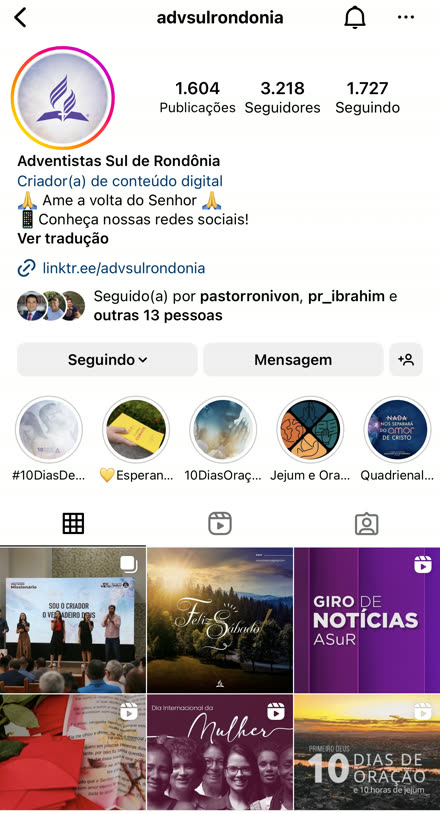
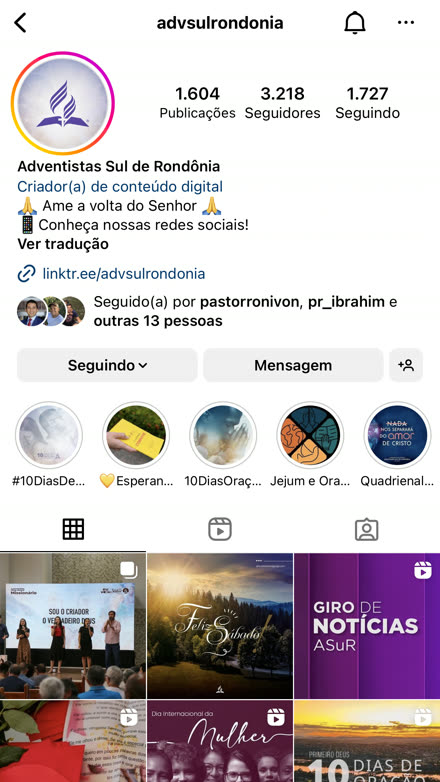
Alinha os @ dos prints e faz o quadro abrir inteiro no lightbox
Os prints vêm de aparelhos diferentes — 1242x2688, 1170x2532 e um já
recortado de 1241x1995 — com barras de status de alturas diferentes, então
a linha do @ caía em alturas diferentes dentro do quadro. A régua agora é o
próprio @: mede-se onde ele está no original e escolhe-se o corte para ele
cair a 22px do topo depois de reduzir para 440px. Os três saem 440x782.

No print da missões o @ já estava colado no topo, sem margem para descer;
entra branco antes do corte, que é o fundo do Instagram e não deixa emenda.
Entra também o depois dela.

Clicar num quadro abre a imagem inteira no mesmo lightbox da galeria, que já
mostra com object-fit: contain. O bloco 7 passa a atender duas coleções e a
variável grupo guarda qual foi aberta, para as setas andarem dentro dela. Daí
o quadro virar <button> com data-full, em vez de <figure>. Para os quatro
arquivos que ainda faltam, um ouvinte de error troca a imagem pelo degradê do
próprio card — a mesma regra de nunca deixar buraco visível.

diff --git a/index.html b/index.html
@@ -413,14 +413,16 @@
               </h3>
             </header>
             <div class="profile__pair">
-              <figure class="profile__shot">
+              <button class="profile__shot" type="button"
+                      data-full="assets/fotos/perfil-1-antes.jpg" data-caption="@adventistasulrondonia — antes">
                 <span class="profile__img profile__img--1-antes" aria-hidden="true"></span>
-                <figcaption class="profile__cap">Antes</figcaption>
-              </figure>
-              <figure class="profile__shot">
+                <span class="profile__cap">Antes</span>
+              </button>
+              <button class="profile__shot" type="button"
+                      data-full="assets/fotos/perfil-1-depois.jpg" data-caption="@adventistasulrondonia — depois">
                 <span class="profile__img profile__img--1-depois" aria-hidden="true"></span>
-                <figcaption class="profile__cap">Depois</figcaption>
-              </figure>
+                <span class="profile__cap">Depois</span>
+              </button>
             </div>
           </article>
           <article class="profile reveal">
@@ -433,14 +435,16 @@
               </h3>
             </header>
             <div class="profile__pair">
-              <figure class="profile__shot">
+              <button class="profile__shot" type="button"
+                      data-full="assets/fotos/perfil-2-antes.jpg" data-caption="@missoesnoroeste — antes">
                 <span class="profile__img profile__img--2-antes" aria-hidden="true"></span>
-                <figcaption class="profile__cap">Antes</figcaption>
-              </figure>
-              <figure class="profile__shot">
+                <span class="profile__cap">Antes</span>
+              </button>
+              <button class="profile__shot" type="button"
+                      data-full="assets/fotos/perfil-2-depois.jpg" data-caption="@missoesnoroeste — depois">
                 <span class="profile__img profile__img--2-depois" aria-hidden="true"></span>
-                <figcaption class="profile__cap">Depois</figcaption>
-              </figure>
+                <span class="profile__cap">Depois</span>
+              </button>
             </div>
           </article>
           <article class="profile reveal">
@@ -453,14 +457,16 @@
               </h3>
             </header>
             <div class="profile__pair">
-              <figure class="profile__shot">
+              <button class="profile__shot" type="button"
+                      data-full="assets/fotos/perfil-3-antes.jpg" data-caption="@deboraknpp — antes">
                 <span class="profile__img profile__img--3-antes" aria-hidden="true"></span>
-                <figcaption class="profile__cap">Antes</figcaption>
-              </figure>
-              <figure class="profile__shot">
+                <span class="profile__cap">Antes</span>
+              </button>
+              <button class="profile__shot" type="button"
+                      data-full="assets/fotos/perfil-3-depois.jpg" data-caption="@deboraknpp — depois">
                 <span class="profile__img profile__img--3-depois" aria-hidden="true"></span>
-                <figcaption class="profile__cap">Depois</figcaption>
-              </figure>
+                <span class="profile__cap">Depois</span>
+              </button>
             </div>
           </article>
         </div>

diff --git a/js/main.js b/js/main.js
@@ -172,17 +172,30 @@
   }
 
   /* ---------------------------------------------------------------
-     7. LIGHTBOX DA GALERIA DE FOTOS
-     Funciona tanto com <img> quanto com os placeholders coloridos.
+     7. LIGHTBOX — galeria de fotos e quadros de antes/depois
+     Funciona com <img>, com os placeholders coloridos e com os quadros
+     que são só background no CSS. Duas coleções usam o mesmo visor: a
+     galeria e o antes/depois; `grupo` guarda qual foi aberta, para as
+     setas andarem dentro dela e não misturarem as duas.
      --------------------------------------------------------------- */
   const lightbox = $("#lightbox");
   const stage = $("#lightbox-stage");
   const caption = $("#lightbox-caption");
   const shots = $$("#gallery .shot");
+  const profileShots = $$(".profile__shot");
+  let grupo = shots;
   let current = 0;
 
+  // O quadro pode não ter arquivo ainda: aí vale o degradê do próprio card,
+  // igual à página, em vez do ícone de imagem quebrada.
+  const mostrarFallback = (shot) => {
+    const ph = $(".shot__ph, .profile__img", shot);
+    stage.innerHTML = "";
+    stage.style.backgroundImage = ph ? getComputedStyle(ph).backgroundImage : "";
+  };
+
   const renderShot = (index) => {
-    const shot = shots[index];
+    const shot = grupo[index];
     if (!shot) return;
     current = index;
 
@@ -192,17 +205,17 @@
     if (full) {
       stage.style.backgroundImage = "";
       stage.innerHTML = `<img src="${full}" alt="${shot.dataset.caption || ""}" />`;
+      $("img", stage).addEventListener("error", () => mostrarFallback(shot));
     } else {
-      const ph = $(".shot__ph", shot);
-      stage.innerHTML = "";
-      stage.style.backgroundImage = ph ? getComputedStyle(ph).backgroundImage : "";
+      mostrarFallback(shot);
     }
-    caption.textContent = `${shot.dataset.caption || ""}  (${index + 1}/${shots.length})`;
+    caption.textContent = `${shot.dataset.caption || ""}  (${index + 1}/${grupo.length})`;
   };
 
-  const openLightbox = (index) => {
+  const openLightbox = (lista, index) => {
     if (!lightbox) return;
     lastFocused = document.activeElement;
+    grupo = lista;
     renderShot(index);
     lightbox.hidden = false;
     document.body.style.overflow = "hidden";
@@ -217,9 +230,10 @@
     if (lastFocused) lastFocused.focus();
   };
 
-  const step = (dir) => renderShot((current + dir + shots.length) % shots.length);
+  const step = (dir) => renderShot((current + dir + grupo.length) % grupo.length);
 
-  shots.forEach((shot, i) => shot.addEventListener("click", () => openLightbox(i)));
+  shots.forEach((shot, i) => shot.addEventListener("click", () => openLightbox(shots, i)));
+  profileShots.forEach((shot, i) => shot.addEventListener("click", () => openLightbox(profileShots, i)));
 
   if (lightbox) {
     $(".lightbox__close", lightbox).addEventListener("click", closeLightbox);

diff --git a/css/styles.css b/css/styles.css
@@ -872,7 +872,18 @@ h1, h2, h3 {
   grid-template-columns: 1fr 1fr;
   gap: 0.9rem;
 }
-.profile__shot { margin: 0; }
+/* Botão, não <figure>: clicar abre o quadro inteiro no lightbox da galeria.
+   Daí o reset — o botão herda fonte e cor do site e não desenha caixa nenhuma. */
+.profile__shot {
+  display: block;
+  width: 100%;
+  margin: 0;
+  padding: 0;
+  border: 0;
+  background: none;
+  text-align: left;
+  cursor: zoom-in;
+}
 .profile__img {
   display: block;
   aspect-ratio: 9 / 16;
@@ -884,6 +895,7 @@ h1, h2, h3 {
 }
 .profile:hover .profile__img { filter: none; }
 .profile__cap {
+  display: block;
   margin-top: 0.75rem;
   font-size: 0.64rem;
   letter-spacing: 0.24em;
